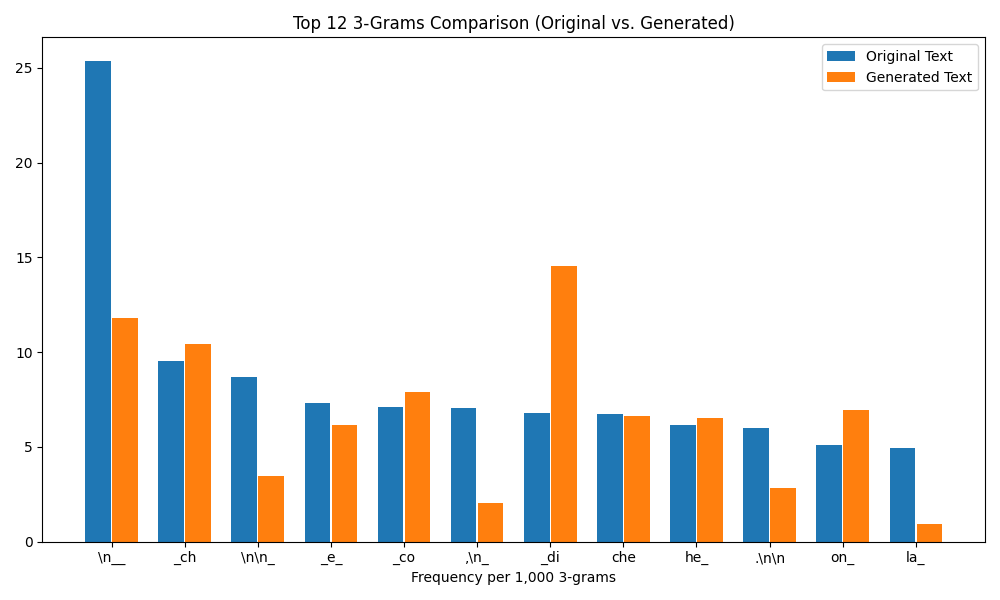
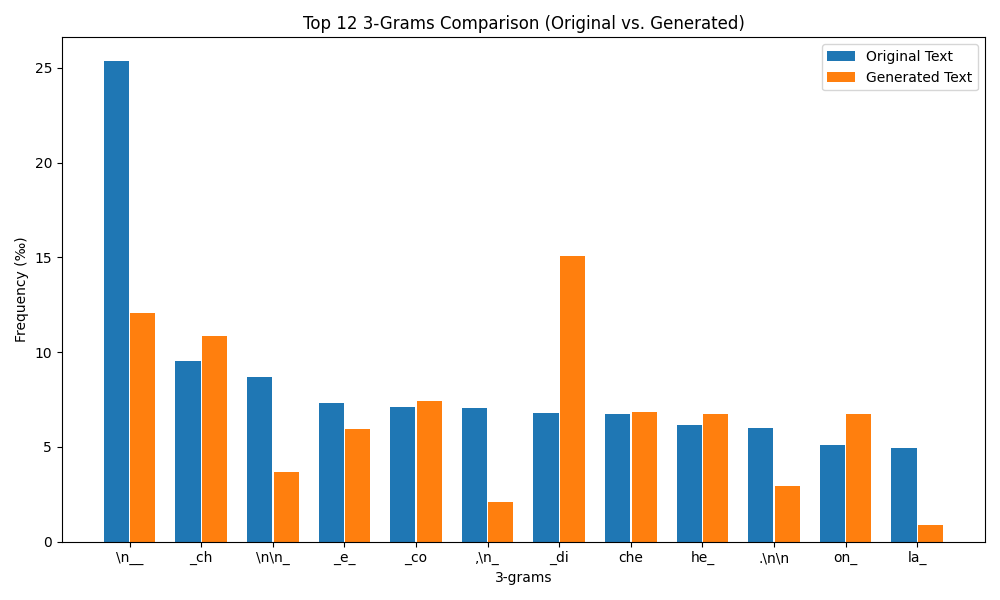
Rerun experiments

diff --git a/experiments.py b/experiments.py
@@ -91,10 +91,12 @@ def experiment_ngrams(original_text_path, gen_text_path, n=3,
         ax.set_xticks(y)
         ax.set_xticklabels(keys)
         # ax.invert_yaxis()  # Highest frequency trigram at the top
-        ax.set_xlabel(f'Frequency per 1,000 {n}-grams')
+        ax.set_xlabel(f"{n}-grams")
+        ax.set_ylabel(f'Frequency (‰)')
         ax.set_title(f'Top 12 {n}-Grams Comparison (Original vs. Generated)')
         ax.legend()
         plt.tight_layout()
+        # plt.show()
         plt.savefig(save_path)
 
 
